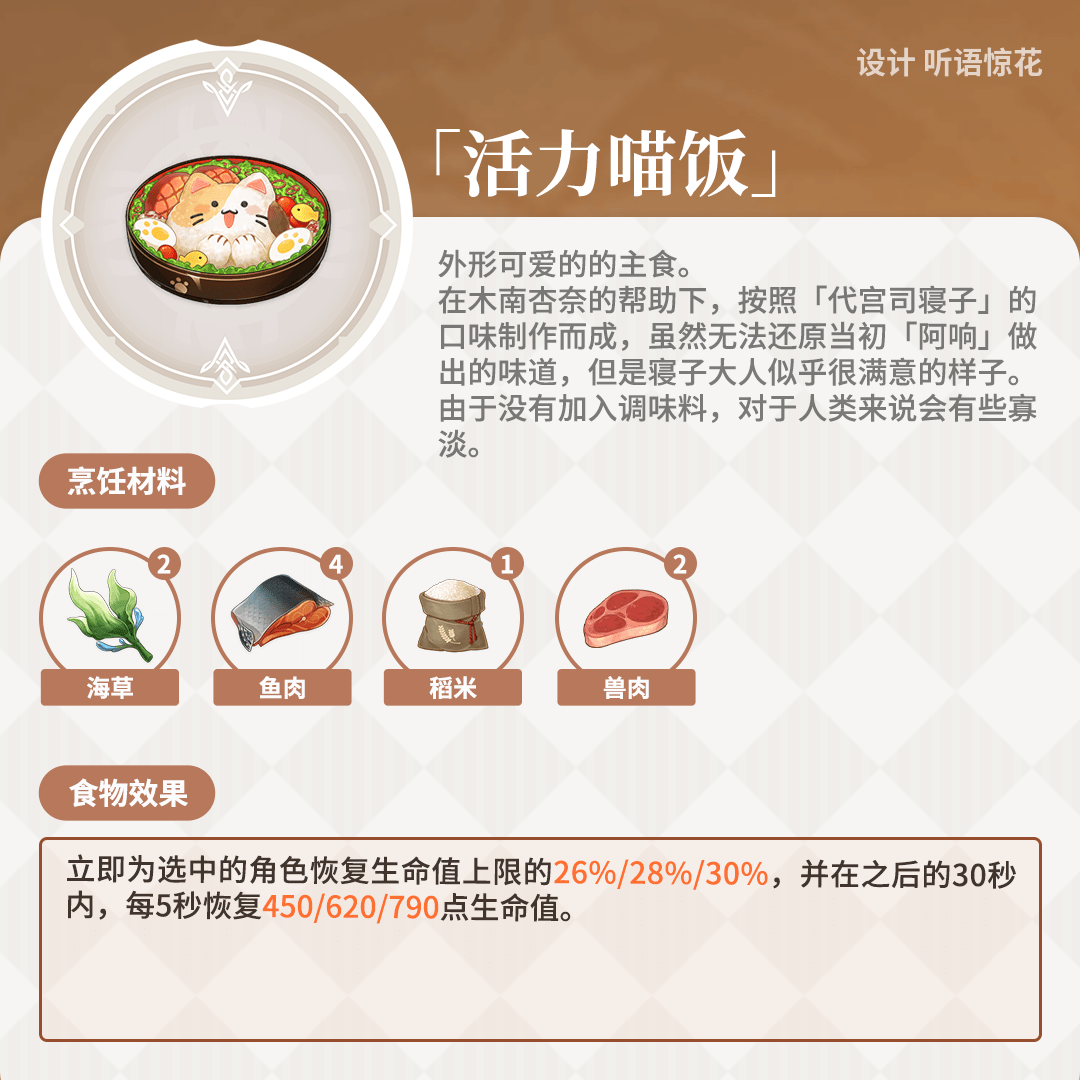
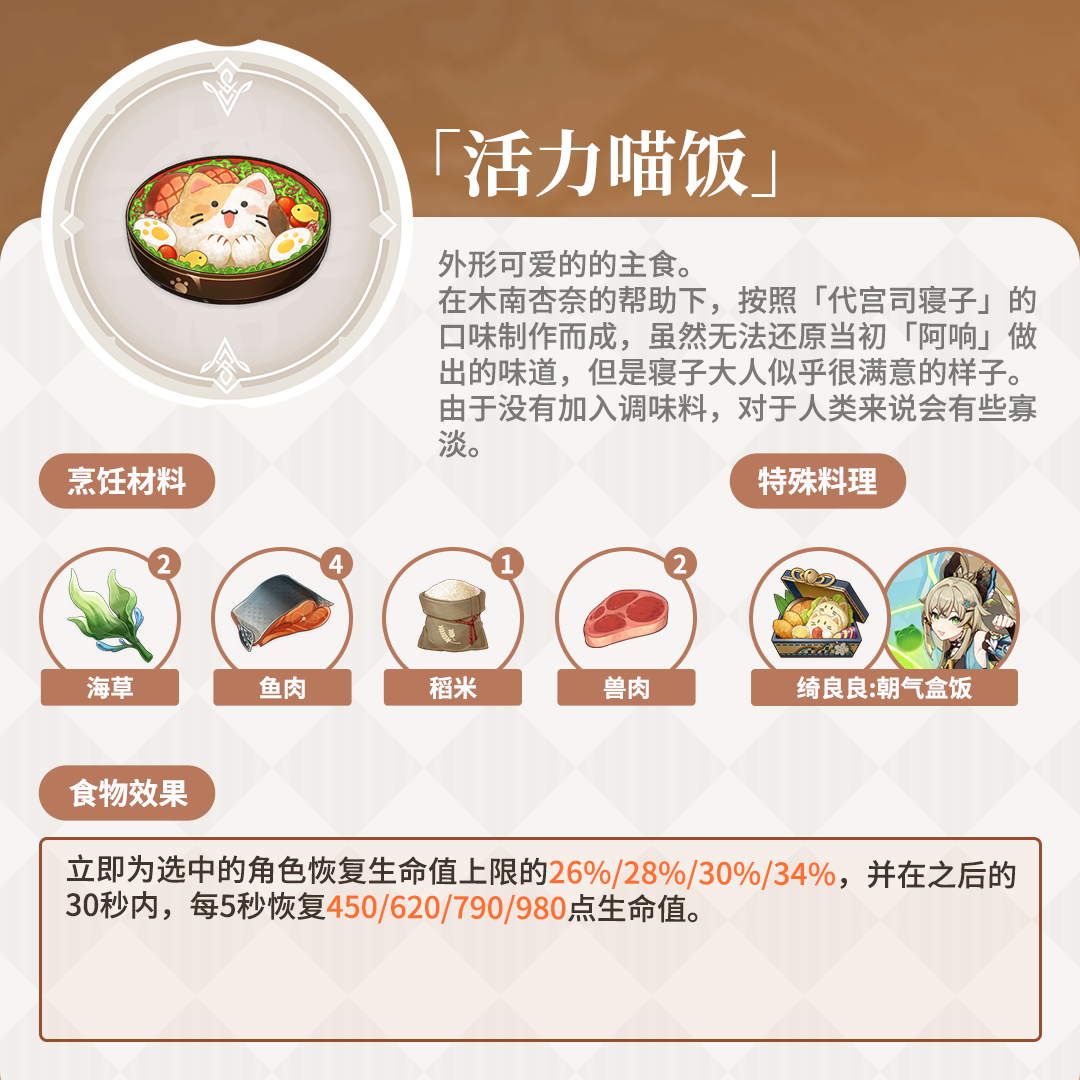
更新绮良良专属料理

Changed region(s): [[0.6722, 0.3972, 0.9472, 0.6722], [0.0611, 0.7944, 0.9472, 0.8556], [0.7944, 0.0306, 0.9778, 0.0917]]

diff --git a/README.md b/README.md
@@ -6,9 +6,9 @@ Genshin-Atlas是一个主要由[`米游社@听语惊花`](https://bbs.mihoyo.com
 - [x] 角色材料（更新至3.7）
 - [x] 七圣召唤卡牌（更新至3.6）
 - [x] 区域特产（更新至3.6）
-- [x] 圣遗物图鉴（更新至3.6）
+- [x] 圣遗物图鉴（更新至3.7）
 - [x] 原魔图鉴（更新至3.6，暂由[Csxylic](https://www.miyoushe.com/ys/accountCenter/postList?id=258229537)提供支持。）
-- [x] 食物图鉴（更新至3.6）
+- [x] 食物图鉴（更新至3.7）
 
 ## TODO
 
